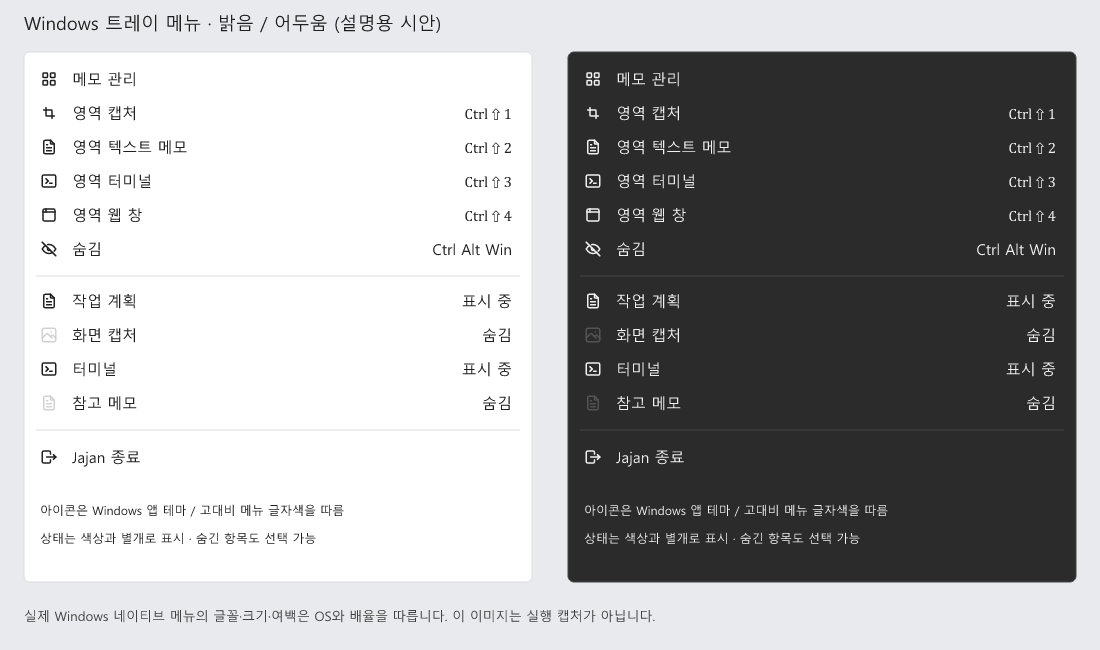
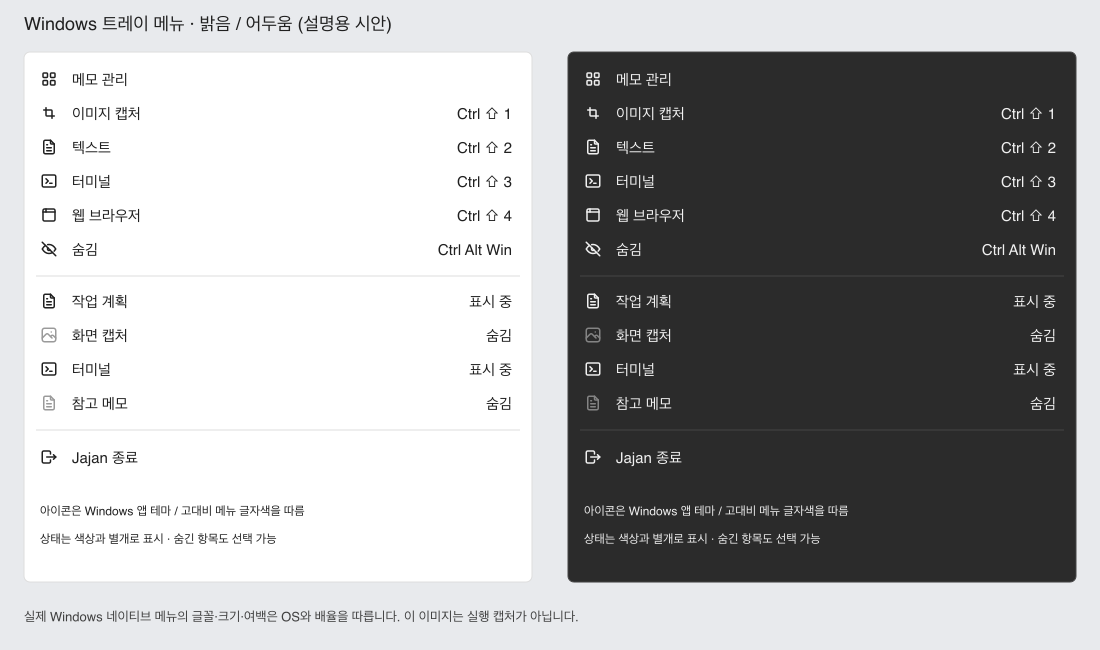
트레이 생성 메뉴를 이미지 캡처·텍스트·터미널·웹 브라우저로 표기

diff --git a/src-tauri/src/tray.rs b/src-tauri/src/tray.rs
@@ -143,10 +143,10 @@ fn menu(app: &tauri::AppHandle) -> Result<Menu<tauri::Wry>, String> {
     }
     append_action(app, &menu, "open-manager", tr("메모 관리").into())?;
     for (id, title, shortcut) in [
-        ("capture-image", "영역 캡처", "Ctrl+Shift+1"),
-        ("capture-text", "영역 텍스트 메모", "Ctrl+Shift+2"),
-        ("capture-terminal", "영역 터미널", "Ctrl+Shift+3"),
-        ("capture-web", "영역 웹 창", "Ctrl+Shift+4"),
+        ("capture-image", "이미지 캡처", "Ctrl+Shift+1"),
+        ("capture-text", "텍스트", "Ctrl+Shift+2"),
+        ("capture-terminal", "터미널", "Ctrl+Shift+3"),
+        ("capture-web", "웹 브라우저", "Ctrl+Shift+4"),
     ] {
         append_action(
             app,

diff --git a/README.md b/README.md
@@ -64,13 +64,13 @@ Windows/macOS의 별도 owner 기반 셸·PTY 프로세스 분리는 [장기 과
 
 - macOS와 Windows에서는 이미지 메모의 가장자리·모서리를 드래그하면 원본 가로세로 비율을 유지하며 크기가 바뀝니다. 접었다 펼쳐도 유지됩니다. Windows 선별 통합의 검증 범위와 한계는 [검증 기록](docs/verification/windows-selective-20261106.md)을 따릅니다.
 
-- **Ctrl+Shift+1** 또는 메뉴 막대의 **영역 캡처 · Ctrl+Shift+1**로 시작합니다. macOS에서도 Command가 아닌 Control입니다.
+- **Ctrl+Shift+1** 또는 메뉴 막대의 **이미지 캡처**로 시작합니다. macOS에서도 Command가 아닌 Control입니다.
 - 화면을 정지 이미지로 덮고 어둡게 표시합니다. 한 화면 안에서 드래그한 영역을 놓으면 원래 밝기의 PNG가 선택한 위치·크기의 기존 메모 UI 안에 표시됩니다. 역방향 드래그도 지원하며 **Escape**로 취소합니다. 화면 사이를 가로지르는 선택은 지원하지 않습니다.
 - 이미지 메모의 이미지 영역은 창 전체를 채웁니다. 테두리·개발 표시·조작 버튼이 이미지를 밀거나 축소하지 않으며, 버튼과 개발 표시는 이미지 위에 겹쳐 배치되며, 평소에는 흐릿하게 보이고 포인터를 올리면 즉시 선명해집니다.
 - 영역 지정 이미지·텍스트 생성은 전체 재배치를 촉발하지 않고 선택한 위치·크기에서 자동 배치 제외 상태로 시작합니다. 이미지에는 Markdown 편집·글자 크기를 비활성화하고, 복사 버튼 또는 ⌘C/Ctrl+C로 원본을 복사합니다. 복사 등 비기하학 작업 뒤에는 다음 일반 열기의 자동 배치 대상이 되며, 이미지 비율을 유지합니다.
 - PNG는 해당 메모의 로컬 저장 폴더에 `capture.png`로 저장하며 외부 전송하지 않습니다. 앱 재실행 시 마지막 위치·크기와 표시·접힘 상태를 복원합니다.
 - macOS에서는 화면 기록 권한이 필요합니다. 권한을 허용한 뒤 앱 재실행이 필요할 수 있습니다. 다른 실행 인스턴스가 단축키를 사용 중이면 메뉴로 실행할 수 있습니다.
-- **Ctrl+Shift+2** 또는 메뉴 막대의 **영역 텍스트 노트**에서 드래그하면 선택한 위치·크기로 빈 Markdown 편집기가 열립니다. 저장 후에도 크기를 유지하며 이미지 파일은 만들지 않습니다. 선택 화면은 캡처와 같은 화면 기록 권한을 사용합니다. Escape로 영역 선택을 취소할 수 있습니다.
+- **Ctrl+Shift+2** 또는 메뉴 막대의 **텍스트**에서 드래그하면 선택한 위치·크기로 빈 Markdown 편집기가 열립니다. 저장 후에도 크기를 유지하며 이미지 파일은 만들지 않습니다. 선택 화면은 캡처와 같은 화면 기록 권한을 사용합니다. Escape로 영역 선택을 취소할 수 있습니다.
 - 외부 Markdown 이미지 로딩은 계속 차단합니다.
 
 ## 메모 연결
@@ -370,13 +370,13 @@ Jajan의 소스 코드는 [MIT 라이선스](LICENSE)로 공개합니다. 저작
 
 ## 범용 터미널
 
-Ctrl+Shift+3 또는 트레이의 **영역 터미널**에서 위치를 선택하면 Welcome이 열립니다. 마지막 폴더(기록이 없으면 홈)에서 설치된 앱 또는 셸을 시작할 수 있습니다. 앱 명령이 끝나면 같은 셸로 돌아갑니다. 닫기는 종료이며 작업 중이면 확인합니다. 핀 해제 후 포커스 이동·세 보조키·CLI `close`는 실행을 유지하는 숨김입니다.
+Ctrl+Shift+3 또는 트레이의 **터미널**에서 위치를 선택하면 Welcome이 열립니다. 마지막 폴더(기록이 없으면 홈)에서 설치된 앱 또는 셸을 시작할 수 있습니다. 앱 명령이 끝나면 같은 셸로 돌아갑니다. 닫기는 종료이며 작업 중이면 확인합니다. 핀 해제 후 포커스 이동·세 보조키·CLI `close`는 실행을 유지하는 숨김입니다.
 
 종료한 터미널은 목록에 남고 다시 열면 마지막 위치·크기·경로를 복원한 Welcome을 보여 줍니다. 전용 에이전트의 영역 생성·자동 실행·`agent` CLI 명령은 제거했습니다. 예전 에이전트 파일은 삭제하지 않으며 목록·복원 대상에서 제외합니다. [디자인 기준](docs/design-system.md#terminal-welcome--57-2026-11-05)과 [플랫폼별 검증 범위](docs/verification/issue57-terminal-welcome.md)를 참고하세요.
 
 ## 웹 창
 
-`Ctrl+Shift+4` 또는 트레이 **영역 웹 창**에서 영역을 선택하면 웹 시작 화면이 열립니다. HTTP(S) 주소를 입력하고 **실행**하거나 Enter를 누르면 Jajan 웹 창에서 표시합니다. 기존 메모와 터미널 단축키는 유지합니다.
+`Ctrl+Shift+4` 또는 트레이 **웹 브라우저**에서 영역을 선택하면 웹 시작 화면이 열립니다. HTTP(S) 주소를 입력하고 **실행**하거나 Enter를 누르면 Jajan 웹 창에서 표시합니다. 기존 메모와 터미널 단축키는 유지합니다.
 
 ```sh
 ./scripts/jajan web --id web-reference
